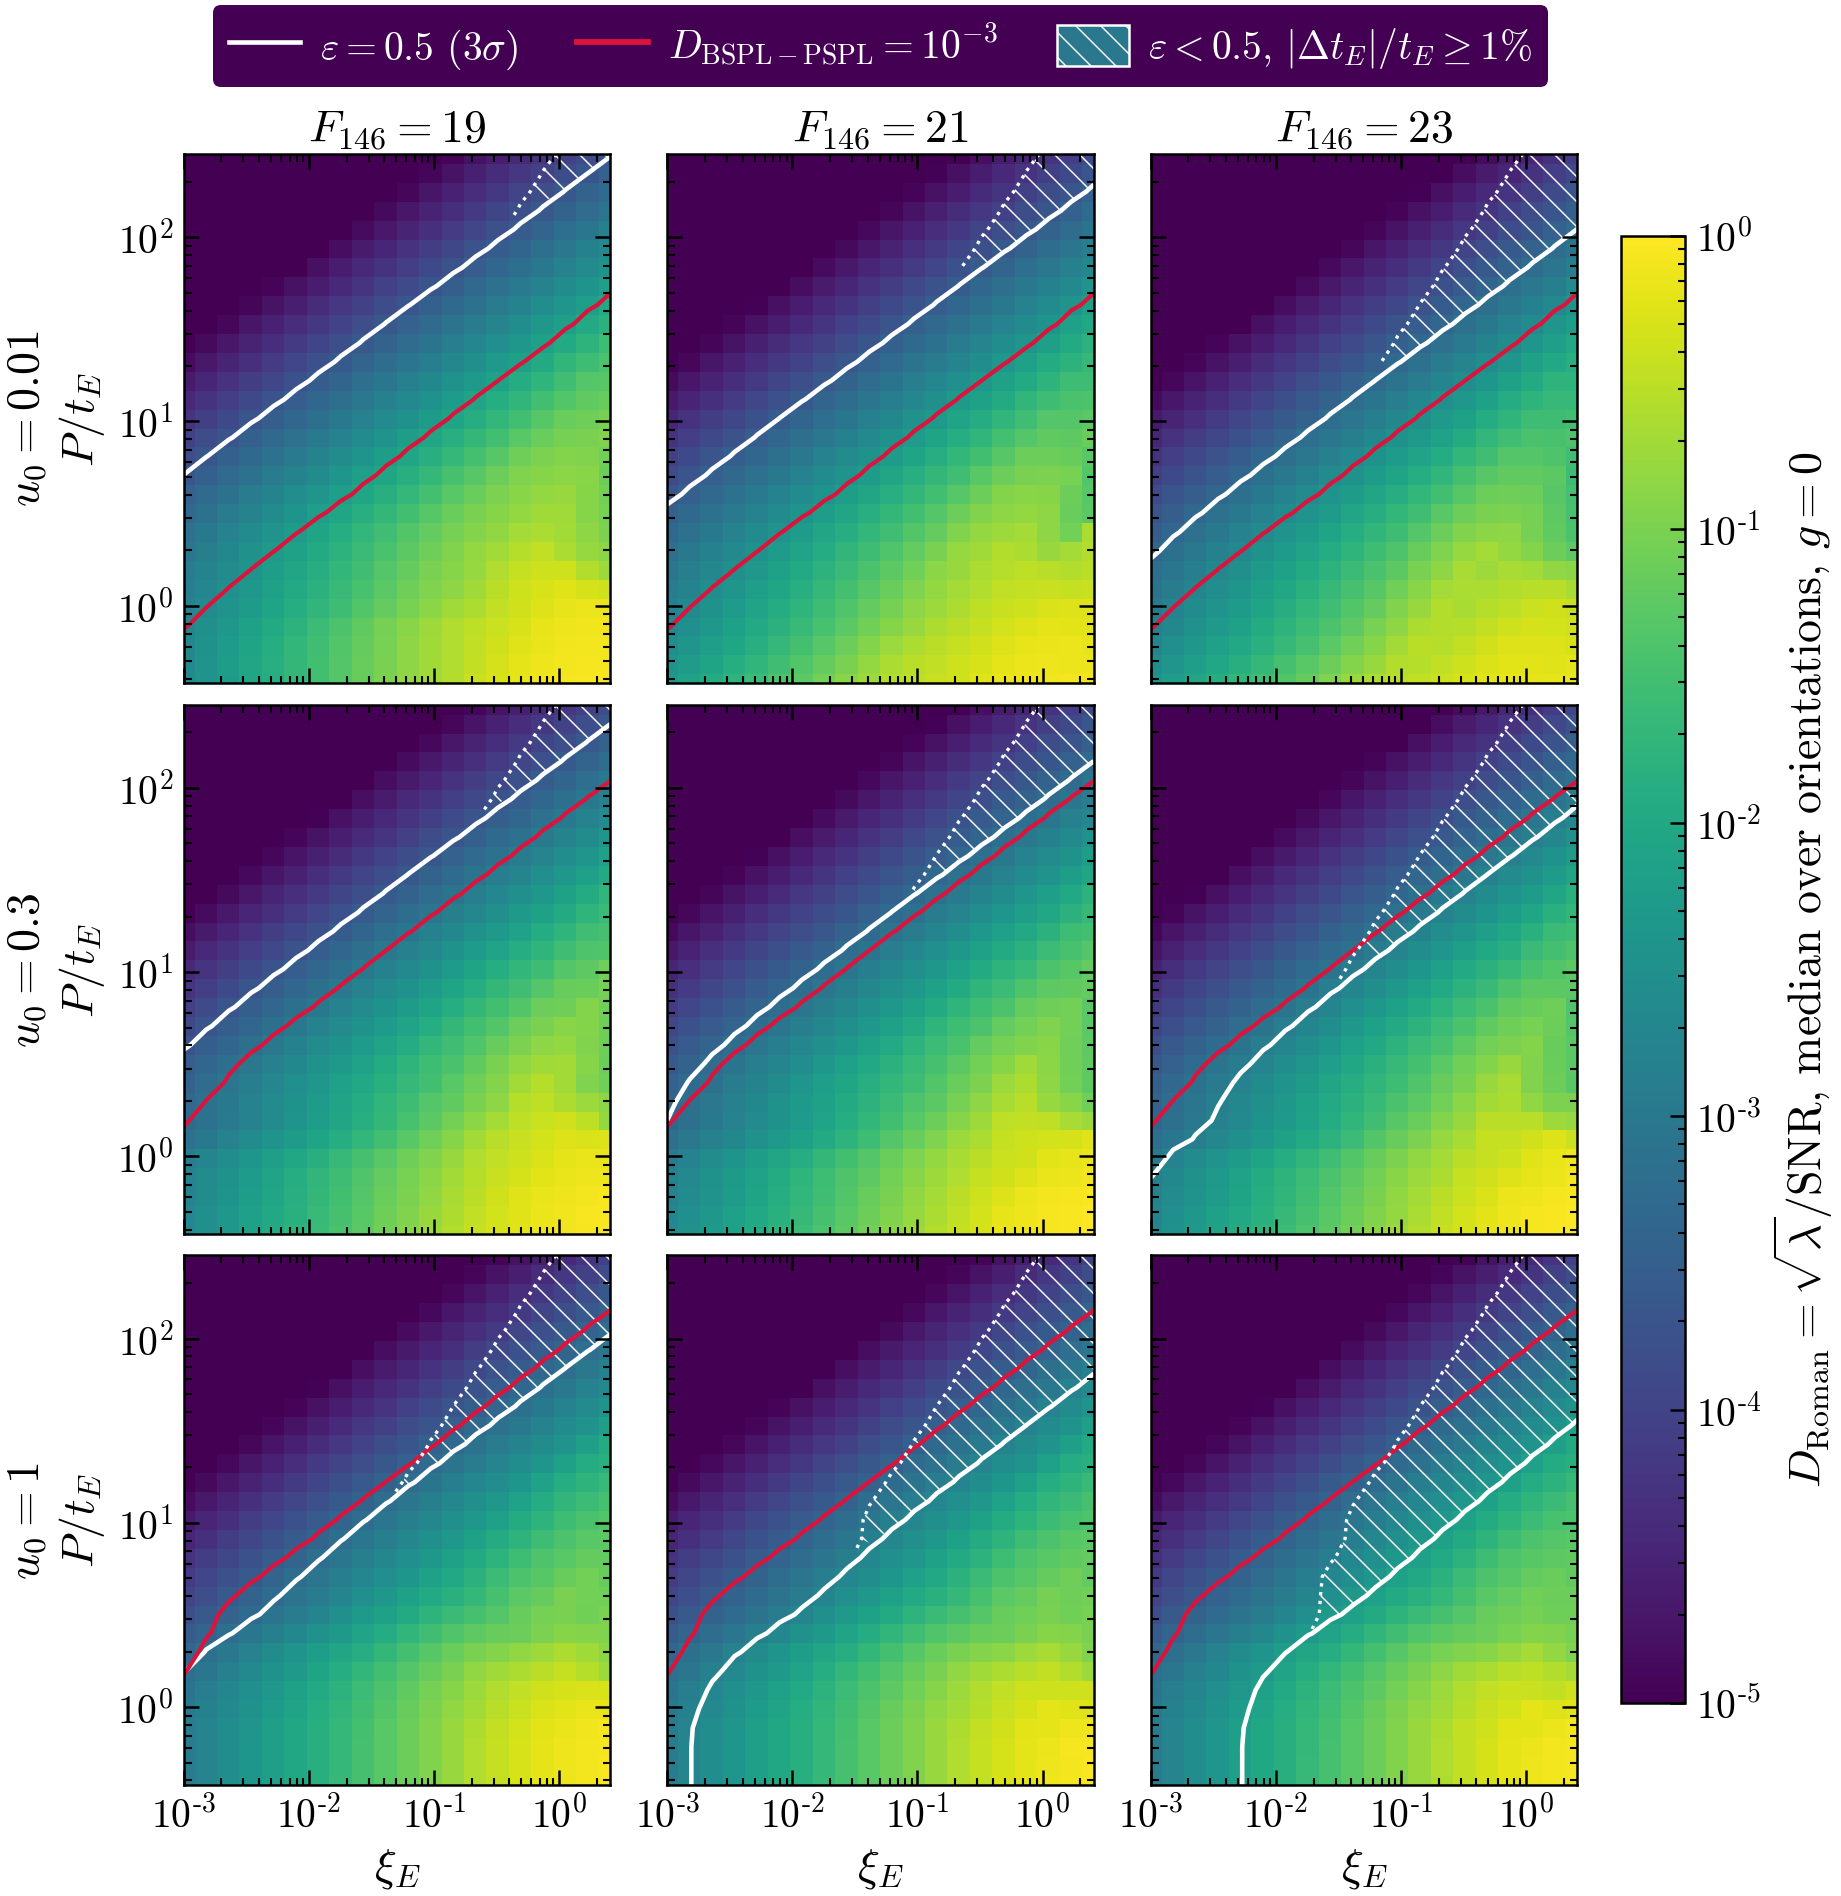
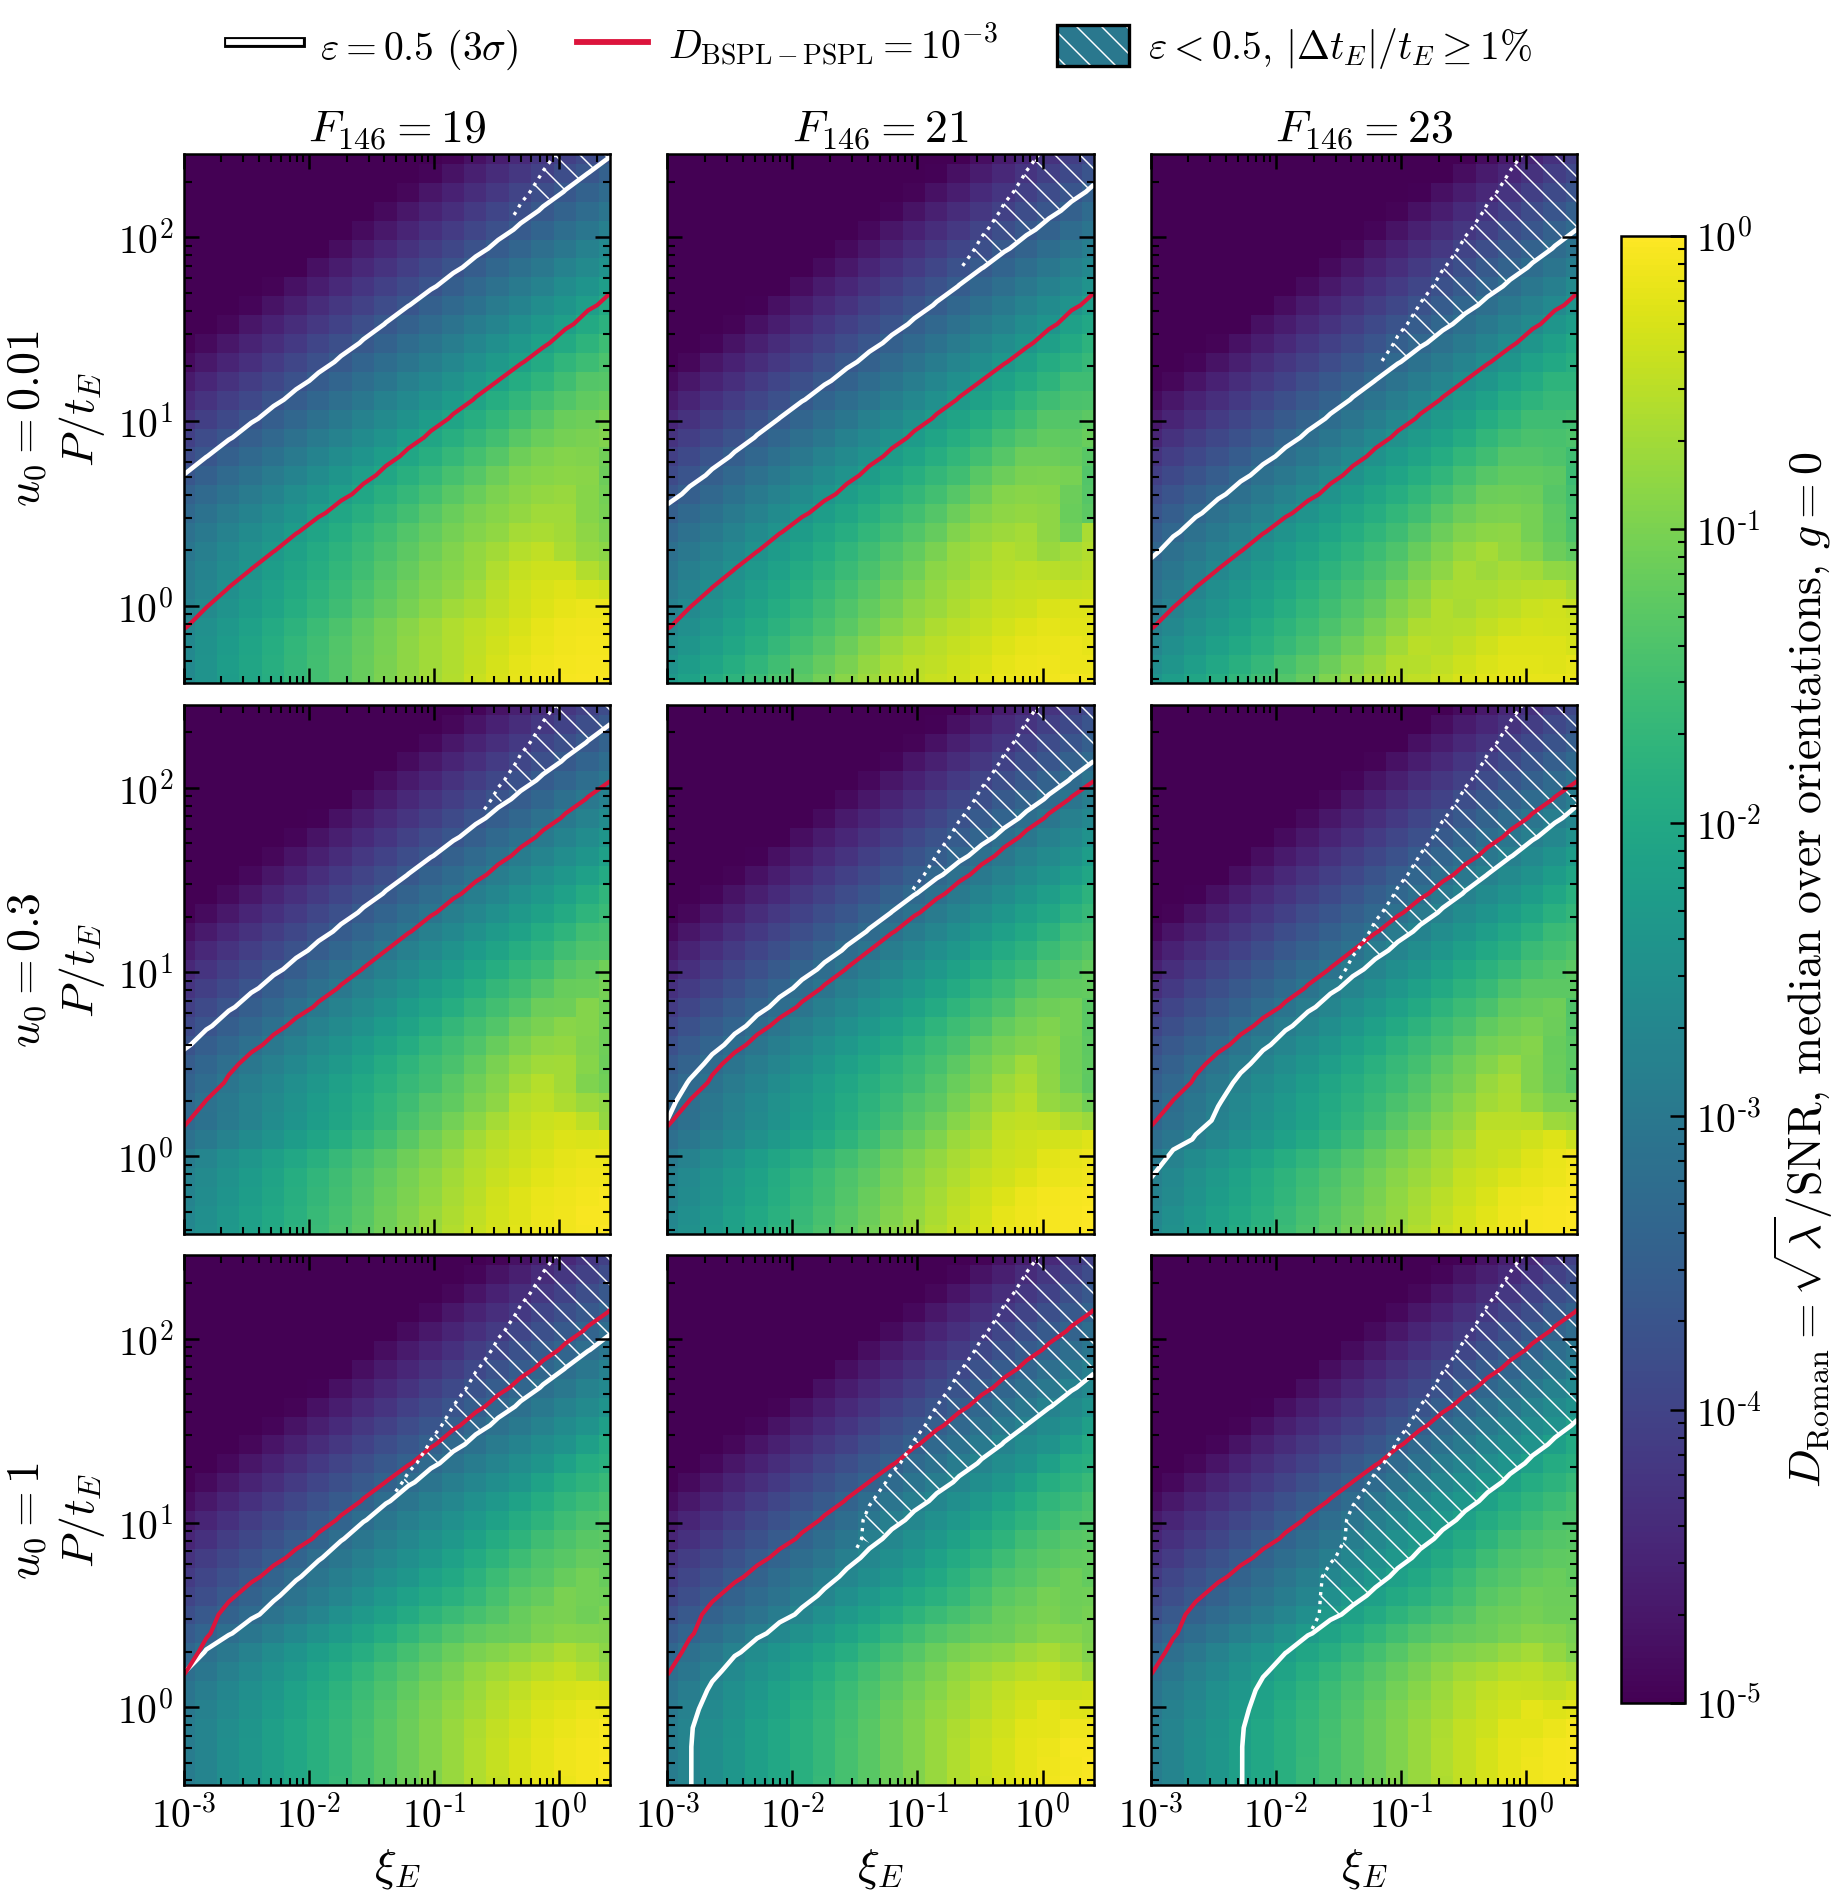
Sec 6 D_Roman map: key on white, outlined white symbols

Changed region(s): [[0.0929, 0.0, 0.8669, 0.0622]]

diff --git a/binary_source/plot_codes/plot_sec6_power_xiE_ptE.py b/binary_source/plot_codes/plot_sec6_power_xiE_ptE.py
@@ -53,6 +53,7 @@ import matplotlib.pyplot as plt
 from matplotlib.colors import ListedColormap, BoundaryNorm
 from matplotlib.lines import Line2D
 from matplotlib.patches import Patch
+import matplotlib.patheffects as pe
 
 sys.path.insert(0, os.path.dirname(os.path.abspath(__file__)))
 from paper_style import (apply_paper_style, fig_width, heatmap, save_figure,  # noqa: E402
@@ -225,18 +226,19 @@ def droman_figure(d, summaries, ib, outdir, tex, primary, bias_thr=0.01):
                 ax.set_ylabel(L["u0"](d["u0_grid"][iu]) + "\n" + L["pte"])
             if r == len(rows) - 1:
                 ax.set_xlabel(L["xi"])
-    handles = [Line2D([], [], color="w", lw=1.1),
+    # key on a white background: white symbols with a black outline; the hatched
+    # box is a filled, white-hatched patch under a black frame (the hatch takes
+    # the edge colour of its own patch)
+    outline = [pe.Stroke(linewidth=2.6, foreground="k"), pe.Normal()]
+    handles = [Line2D([], [], color="w", lw=1.4, path_effects=outline),
                Line2D([], [], color="crimson", lw=1.4),
-               Patch(facecolor=plt.get_cmap(D_CMAP)(0.4), edgecolor="w", linewidth=0.6,
-                     hatch="\\\\\\\\")]
+               (Patch(facecolor=plt.get_cmap(D_CMAP)(0.4), edgecolor="w", linewidth=0.0,
+                      hatch="\\\\\\\\"),
+                Patch(facecolor="none", edgecolor="k", linewidth=0.8))]
     names = [r"$\varepsilon=0.5$ ($3\sigma$)", r"$D_{\rm BSPL-PSPL}=10^{-3}$",
              r"$\varepsilon<0.5$, $|\Delta t_E|/t_E\geq1\%$"]
-    leg = lax.legend(handles, names, loc="center", ncol=3, frameon=True,
-                     facecolor=plt.get_cmap(D_CMAP)(0.0), edgecolor="none",
-                     framealpha=1.0, handlelength=1.8, handleheight=1.2,
-                     columnspacing=1.5)
-    for t in leg.get_texts():
-        t.set_color("w")
+    lax.legend(handles, names, loc="center", ncol=3, frameon=False,
+               handlelength=1.8, handleheight=1.2, columnspacing=1.5)
     fig.colorbar(pcm, ax=list(axes.ravel()), shrink=0.9,
                  label=r"$D_{\rm Roman}=\sqrt{\lambda}/{\rm SNR}$, median over orientations, "
                        + L["g"](d["blend_ratio"][ib]))
